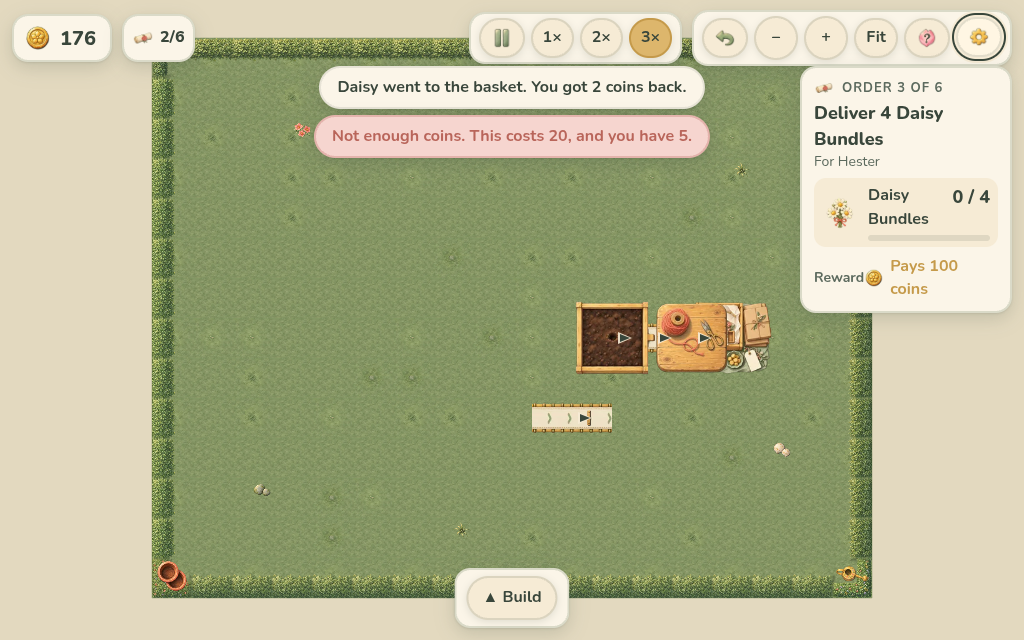
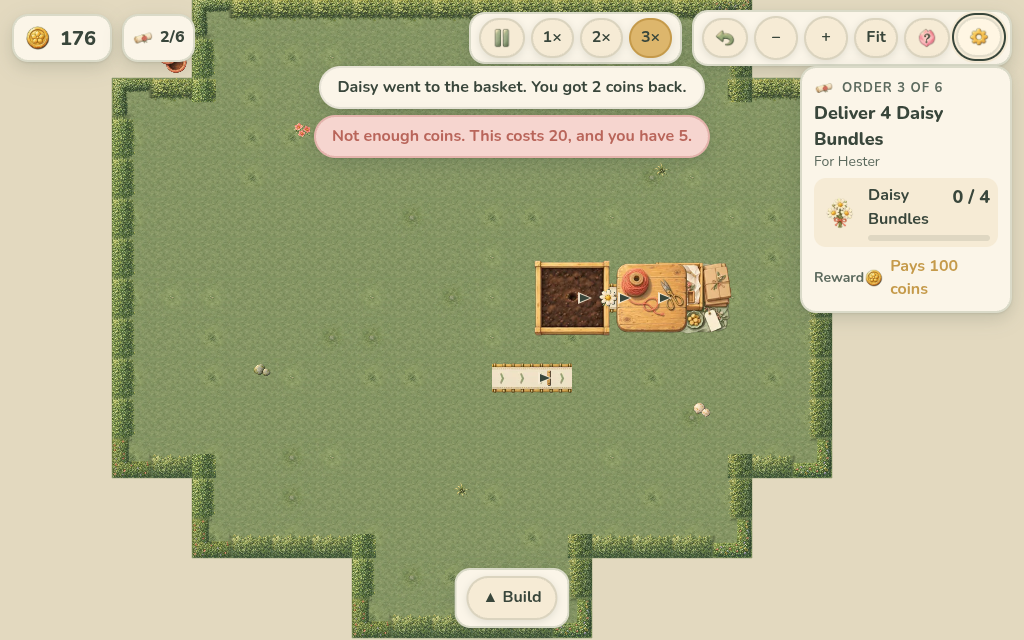
Playthrough on the new outline; atomic save-and-snapshot in checks; docs

diff --git a/e2e/smoke.spec.ts b/e2e/smoke.spec.ts
@@ -82,8 +82,11 @@ test.describe('Petalworks smoke', () => {
 
     // Reload mid-transport: same garden, same coins, same order, items once.
     await page.evaluate(() => (window as any).petalworks.fastForward(43));
-    const before = await page.evaluate(() => JSON.stringify((window as any).petalworks.sim.world));
-    await page.evaluate(() => (window as any).petalworks.save());
+    // Snapshot and save in one page call so no sim tick can land between them.
+    const before = await page.evaluate(() => {
+      (window as any).petalworks.save();
+      return JSON.stringify((window as any).petalworks.sim.world);
+    });
     await page.reload();
     await page.waitForSelector('[data-testid="continue"]');
     await page.click('[data-testid="continue"]');

diff --git a/producer/STATUS.md b/producer/STATUS.md
@@ -14,6 +14,13 @@
 - Autosave, Continue / New Game with confirmation, corrupted-save backup, schema v2 with a v1 migration.
 - Default zoom keeps tiles at least 48 px; at 1366×768 the garden sits between the tip card and the order card instead of under them; the fit re-runs on window resize (Steam-plan guardrail).
 
+## Round of Nov 1, 20:47 (Sugar Belt music, irregular plot)
+- **Music is now Allie's Sugar Belt soundtrack**, ported as `src/app/music.ts` and generated with Web Audio at runtime (music box, marimba, lo-fi keys and breathers over gentle progressions, modulating between keys). It starts on the first click with a 4 s fade, the music toggle and pause fade work as before, a hidden tab suspends it, and the arrangement fills out as the factory grows (machines and items on belts raise the intensity). No music file is downloaded any more: `assets/audio/music.*` stay as the audio team's source but are not loaded, and the lighter copies are gone. `tools/music-check.mjs` renders it offline: peak −11 dBFS, RMS −28 dBFS, no clipping, no silences, which matches the Sugar Belt preview recording (peak −10.4, mean −26.8).
+- **The yard is no longer a box.** Plots are unions of rectangles (`src/sim/data/plots.ts`, with a tile map in the comment). The starting yard (190 tiles, about the old 192) has stepped corners, a south alcove and an east nook; Open Plot adds an east wing, a south corner, a south-west step and a north-east nook (90 tiles) rather than a rim. Opening it never moves anything. The hedge follows the real outline (inner corners are the strips cropped to their meeting square so the band turns), the closed field is tinted per tile with one traced outline and one label, and props sit in the notches.
+- **Old saves keep every built tile.** A save made on the old 16×12 box (or its 20×14 expansion) gets a legacy plot id added on load that covers the old shape, so structures in what are now notches stay exactly where they were. A unit test builds a belt on all 192 old tiles and loads it; all 192 survive and are buildable. Fresh games never get the legacy ids.
+- Playthrough check rerun on the new outline at 1280×800 and 1024×640 (results below). Screenshots 14–17 show the outline open, expanded, and the expanded yard at both sizes.
+- One copy line changed: `extra.palette.expandLine` ("The garden grows to 20 × 14") is no longer true, so it now reads "Opens an east wing and a south corner, about 90 more tiles. Permanent." (QUESTIONS #9).
+
 ## Round of Nov 1, 19:46 (performance follow-ups + playthrough)
 - **Unchanged belt views are skipped per frame.** Each belt keeps a signature (frame, facing, feeders, layout version) and only re-applies textures when it changes; feeder lookups are cached until a build action bumps `layoutVersion`; sizes/positions are set once per structure; the exit arrow is only moved when facing or zoom changes.
 - **Cheaper HUD subscription.** Sim ticks mark the HUD dirty and it re-renders at most ~5 times a second (notable events such as a delivery, a craft or an order still render on the same frame). UI actions render immediately as before.

diff --git a/KNOWN_ISSUES.md b/KNOWN_ISSUES.md
@@ -12,12 +12,16 @@ Honest list. Nothing here is disguised as finished.
 - Screen readers get a polite announcement for the keyboard cursor tile; there is no per-tile tour of the whole garden.
 - Balance has been checked against `docs/design/BALANCE.md` and the Vitest affordability test, not against human playtests. The e2e harness drives the sim faster than a person would.
 
+## Plot shape
+- The hedge's inner corners are the strip pieces cropped to their meeting square; if the art team paints dedicated inner-corner pieces they can replace that in one place (`rebuildGround` in `src/game/PetalScene.ts`).
+- Saves from the box-shaped yard load with an extra `legacy-potting` plot (and `legacy-south-rim` if expanded) so their notch-corner buildings stay valid; those gardens keep the old box outline.
+
 ## Copy
 - `docs/content/copy.json` is wired for every string it covers. About 60 short strings it does not cover yet (zoom/fit buttons, "Order 1 of 6", the open-market line, a few error lines, extra keyboard rows) live in `EXTRA` in `src/ui/strings.ts` with the same key style, listed in `producer/QUESTIONS.md` #7.
 - The copy's "place a Packing Station" opening tip is skipped because the station is pre-placed.
 
 ## Layout
-- Below about 1064 px wide, Fit (the whole 16-tile yard at the 40 px tile floor) cannot sit beside both side cards (212 px each), so at 1024×640 the cards cover the yard's outer columns after Fit. The default framing (the used area) stays clear of the cards at every size, and the cards shrink below 1150 px. From 1280 px up the whole yard fits beside the cards.
+- Below about 1200 px wide, Fit (the whole 18-tile yard at the 40 px tile floor) cannot sit beside both side cards (212 px each), so at 1024×640 the cards cover the yard's outer columns after Fit. The default framing (the used area) stays clear of the cards at every size, and the cards shrink below 1150 px. From 1280 px up the whole yard fits beside the cards.
 
 ## Performance
 - First load at Slow 4G is about 7.8 s to a clickable New Game (1.43 MB). The remaining weight is Phaser's bundle and three full Nunito TTFs; font subsetting and a slimmer Phaser build are not done.

diff --git a/DESIGN_DECISIONS.md b/DESIGN_DECISIONS.md
@@ -10,7 +10,7 @@ Short notes on the choices the brief left open, and why. Policies the acceptance
 - **Deterministic transfers.** Belts are processed in id order. For each contested destination the feeder directly behind wins, then the right side, then the left. Transfers repeat in passes so a packed line advances as a unit. One item per belt tile; items never move into an occupied tile and never skip a tile.
 - **Ports are data.** Every structure definition lists facing-relative ports (`facing/left/right/back/all`, `in/out`). Beds: one output. Processors and packing: input on all sides; processors output on the facing side. Belts: output facing, input from the other three sides. `transport.ts` resolves moves from those lists, so a two-output gate later is a new definition, not a rewrite.
 - **Recipes are records** (`src/sim/data/recipes.ts`). Each placed machine stores its `recipeId`. Input buffers are typed per ingredient (8 each), so an Arrangement Table cannot fill with bundles and starve the sachet. One output slot.
-- **Grid.** Fixed northwest origin; absolute coordinates on every structure. Plots are data (`potting` 16×12, `south-rim` 20×14). Opening the expansion appends a plot id and never moves anything.
+- **Grid.** Fixed northwest origin; absolute coordinates on every structure. Plots are data: unions of rectangles (`potting`, an irregular 190-tile yard; `south-rim`, a 90-tile wing-and-corner expansion). A tile is buildable if any open plot covers it. Opening the expansion appends a plot id and never moves anything. Saves from the old box-shaped yard get a `legacy-*` plot added on load so nothing they built becomes invalid.
 - **Save schema v2** with ordered migrations (v1 → v2 exists and is tested). Sim state only; settings live beside it so a sim migration never resets them. A broken save is backed up under `petalworks.save.backup` and the title offers New Game.
 
 ## Economy and rules

diff --git a/producer/QUESTIONS.md b/producer/QUESTIONS.md
@@ -17,3 +17,7 @@ Each has the default I am building with. None blocks progress. (1–6 and the nu
 7. **copy.json extra gained one key.** The title's loading bar needs "Loading the garden" (`extra.title.loadingGarden`). PR #12's test requires every leftover string to exist in copy.json, so I added that key with my placeholder text. Edit the wording as you like.
 
 8. **1024×640 and the side cards.** Fit shows the whole yard at the 40 px floor, which is 640 px wide; the tip and order cards are 212 px each, so both cannot clear the yard in a 1024 px window (needs about 1064). The default framing keeps the used area clear, and every click in the scripted playthrough lands. **Default: leave it**, documented in KNOWN_ISSUES. Alternative if you want zero overlap there: auto-collapse the tip card to a pill below 1064 px.
+
+9. **Expansion copy line.** `extra.palette.expandLine` said "The garden grows to 20 × 14. Permanent.", which the new shape makes untrue. I changed it (in copy.json and the fallback) to "Opens an east wing and a south corner, about 90 more tiles. Permanent." Reword as you like.
+
+10. **Plot shape.** The starting yard and the expansion follow the tile map in `src/sim/data/plots.ts`. If Allie wants a different silhouette, it is data: edit the rectangles, and the hedge, closed field, label and tests follow. The only rule I kept is that old saves get a legacy plot covering the old box, so nothing built ever becomes invalid.
